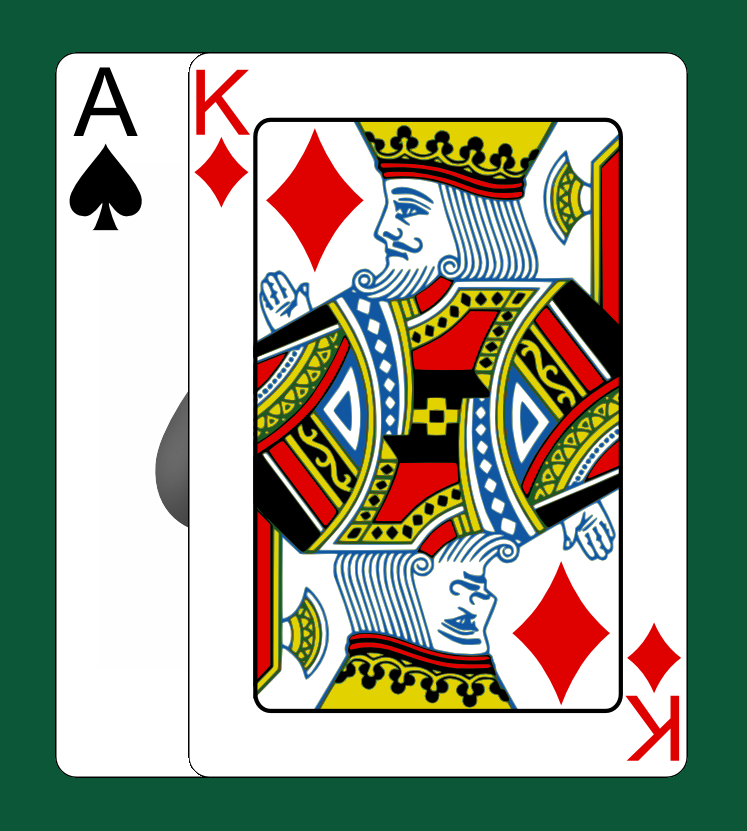
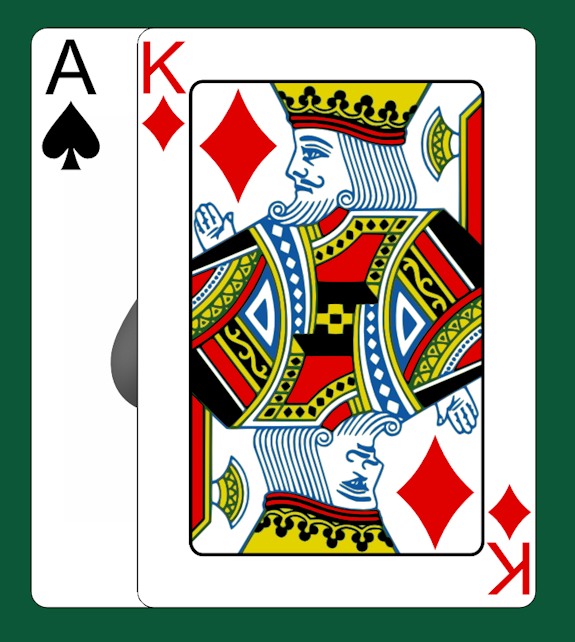
Update rule css

diff --git a/client/src/pages/lobby/Rules.tsx b/client/src/pages/lobby/Rules.tsx
@@ -61,11 +61,13 @@ const RulesModal: React.FC<RulesModalProps> = ({ onClose }) => {
       </div>
 
       <div className="mb-6">
-        <img
-          src={rules[currentRule].image}
-          alt={rules[currentRule].altText}
-          className="w-full object-cover rounded-lg mb-4"
-        />
+        <div className="h-64 mb-4 flex items-center justify-center overflow-hidden rounded-xl">
+          <img
+            src={rules[currentRule].image}
+            alt={rules[currentRule].altText}
+            className="max-h-full max-w-full object-contain"
+          />
+        </div>
         <p className="text-accent text-lg">{rules[currentRule].text}</p>
       </div>
 

diff --git a/client/src/index.css b/client/src/index.css
@@ -21,7 +21,6 @@ button {
 }
 
 button:hover {
-  background-color: #d4af37;
   box-shadow: 0 0 8px 3px rgba(197, 191, 7, 0.6);
 }
 
